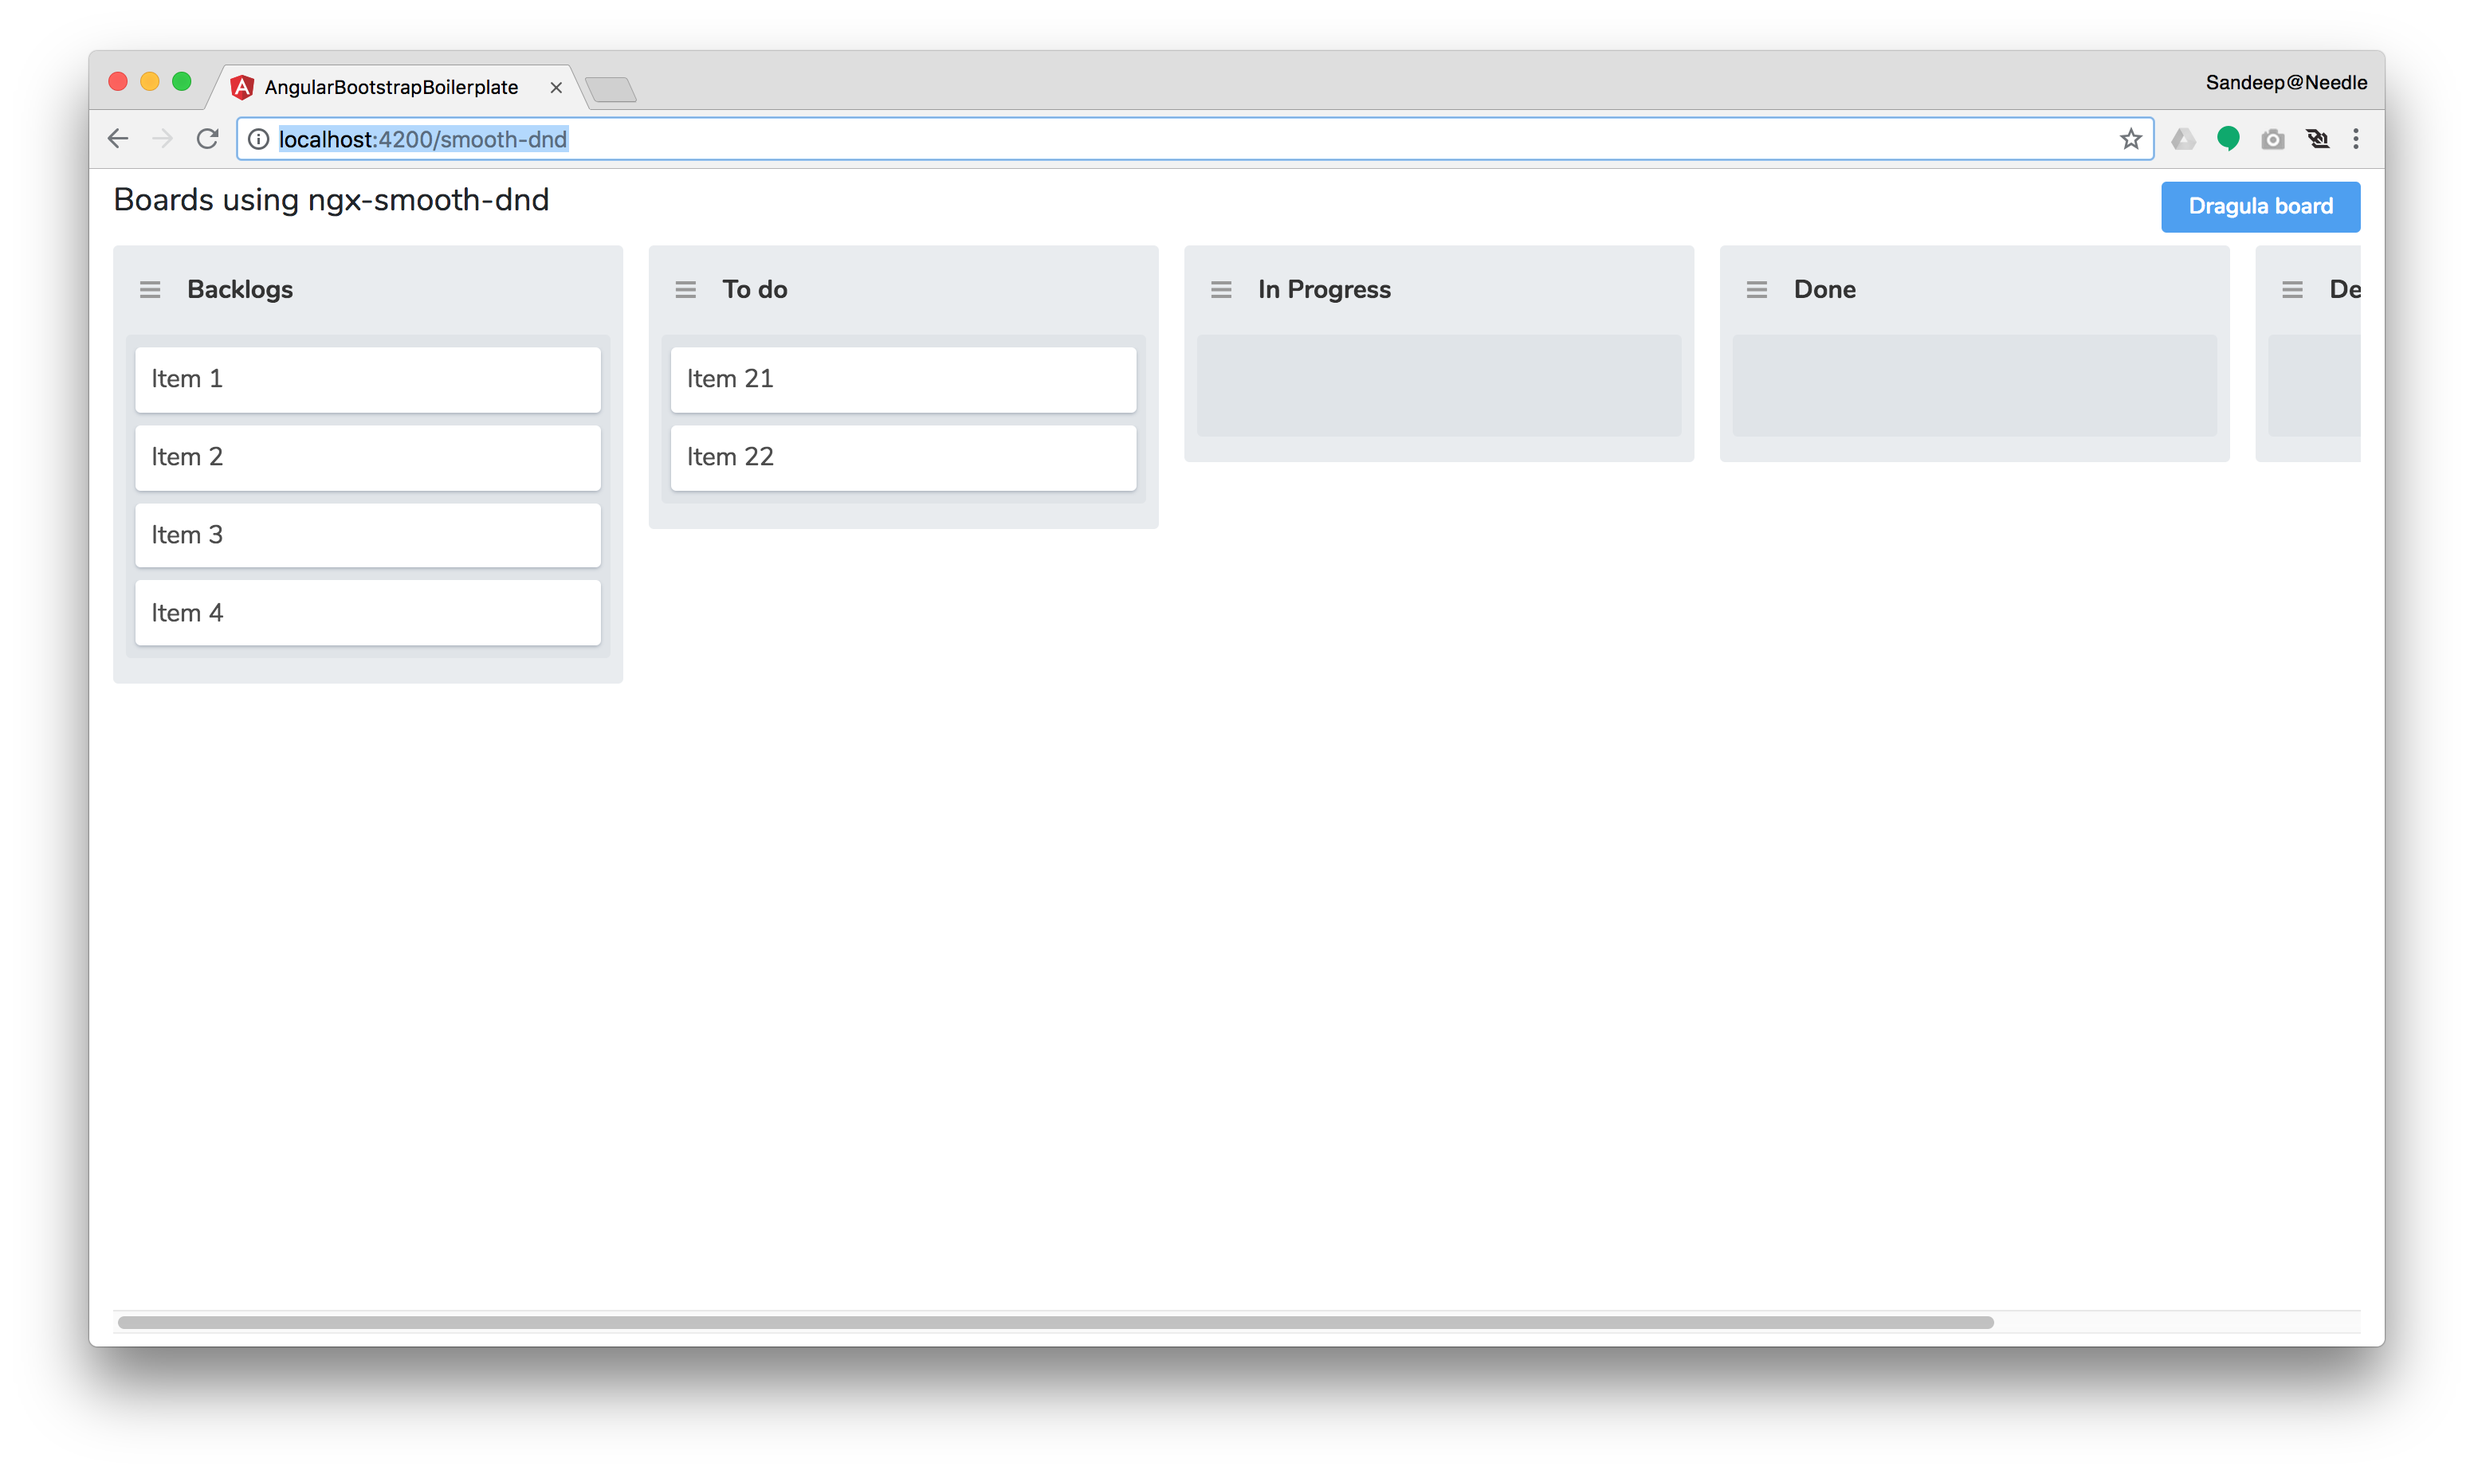
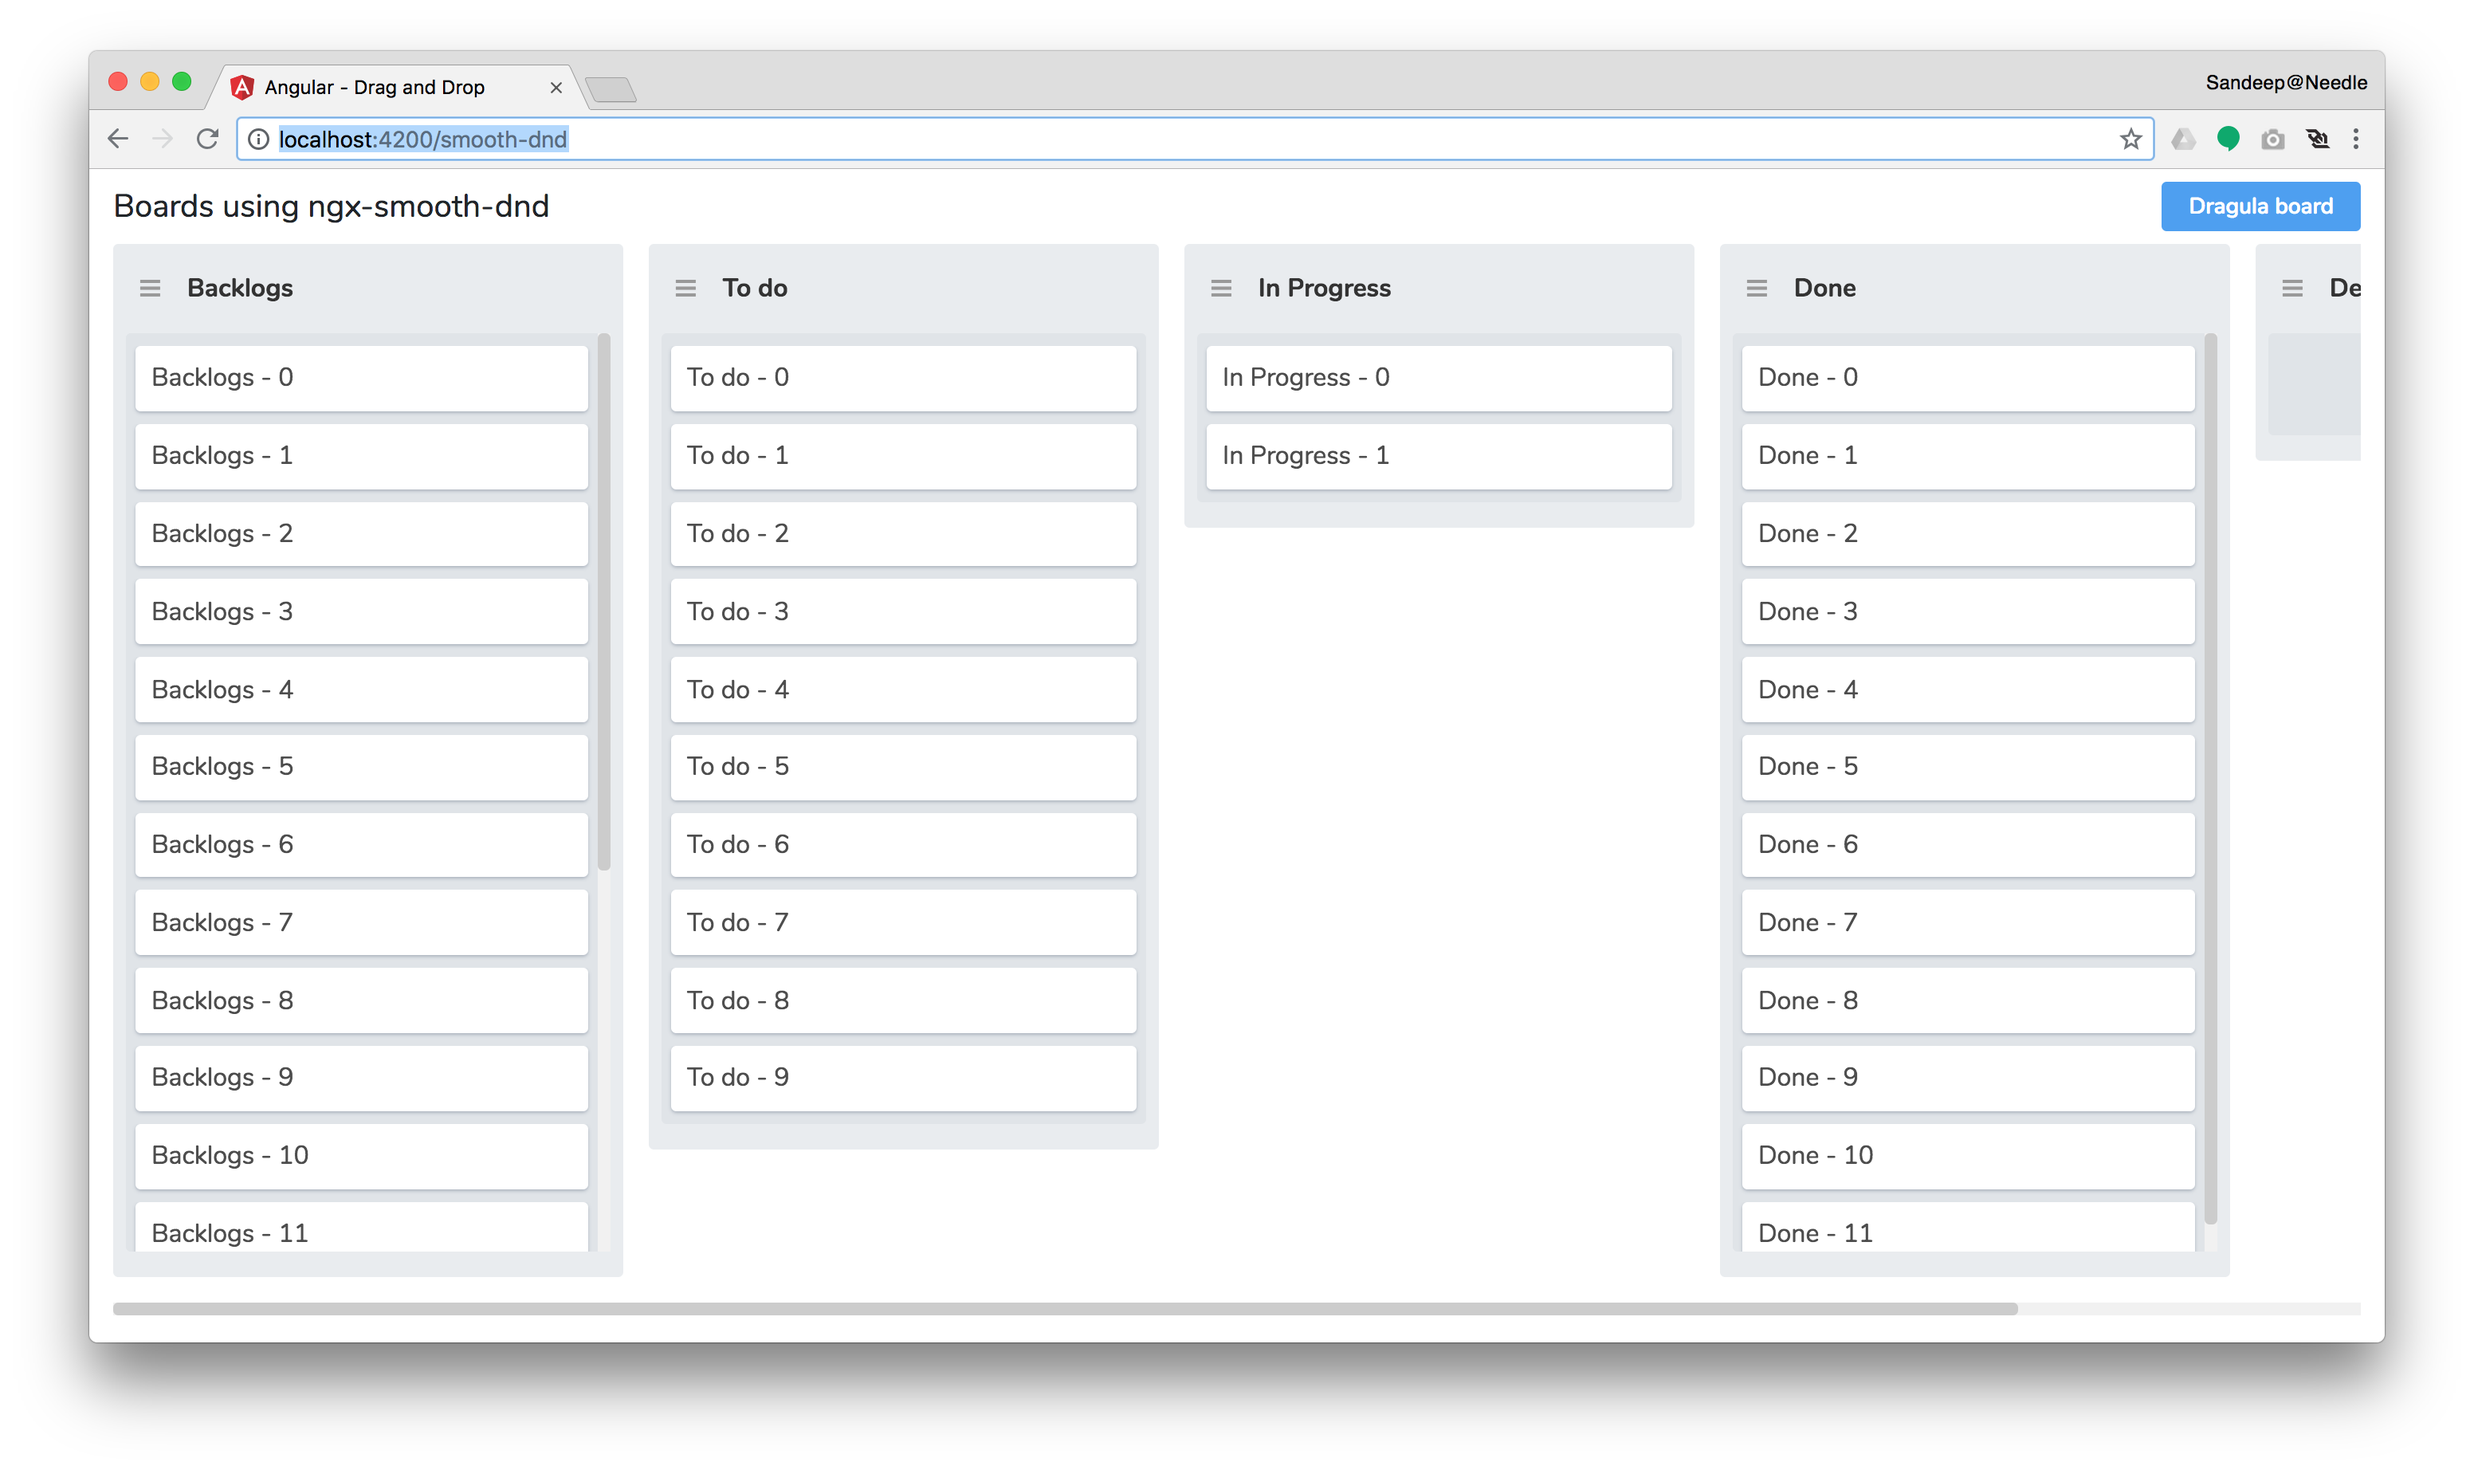
updated application image

diff --git a/src/index.html b/src/index.html
@@ -3,7 +3,7 @@
 
 <head>
     <meta charset="utf-8">
-    <title>AngularBootstrapBoilerplate</title>
+    <title>Angular - Drag and Drop</title>
     <base href="/">
 
     <meta name="viewport" content="width=device-width, initial-scale=1">
